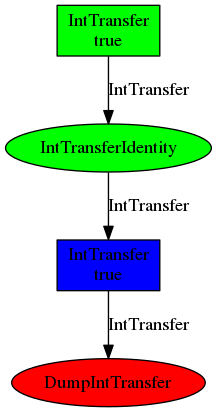
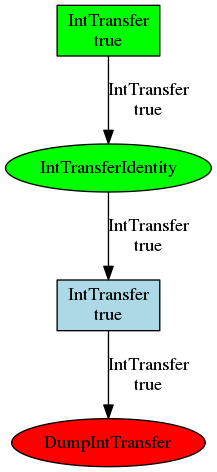
Show activators on dot diagrams

diff --git a/dataflow-manager/data-flow-manager/generator/src/main/java/ch/skymarshall/dataflowmgr/generator/writers/dot/DotModuleVisitor.java b/dataflow-manager/data-flow-manager/generator/src/main/java/ch/skymarshall/dataflowmgr/generator/writers/dot/DotModuleVisitor.java
@@ -55,11 +55,13 @@ public class DotModuleVisitor extends ModuleVisitor<DotModuleVisitor.Graph> {
 		final UUID from;
 		final UUID to;
 		final String label;
+		String activator;
 
-		public Link(final UUID from, final UUID to, final String label) {
+		public Link(final UUID from, final UUID to, final String label, final String activator) {
 			this.from = from;
 			this.to = to;
 			this.label = label;
+			this.activator = activator;
 		}
 
 	}
@@ -79,16 +81,16 @@ public class DotModuleVisitor extends ModuleVisitor<DotModuleVisitor.Graph> {
 	@Override
 	public Graph visit(final Module module, final ActionPoint ap, final InFlowRule rule, final Graph context) {
 		context.nodes.add(new Node(rule.uuid, rule.input + "\\n" + rule.activator, Shape.box));
-		context.links.add(new Link(rule.uuid, ap.uuid, ap.input));
+		context.links.add(new Link(rule.uuid, ap.uuid, ap.input, ap.activator));
 		return super.visit(module, ap, rule, context);
 	}
 
 	@Override
 	public Graph visit(final Module module, final ActionPoint ap, final OutFlowRule rule, final Graph context) {
-		context.links.add(new Link(ap.uuid, rule.uuid, ap.output));
+		context.links.add(new Link(ap.uuid, rule.uuid, ap.output, ap.activator));
 
 		context.nodes.add(new Node(rule.uuid, rule.output + "\\n" + rule.activator, Shape.box));
-		context.links.add(new Link(rule.uuid, findAction(module, rule.nextAction).uuid, rule.output));
+		context.links.add(new Link(rule.uuid, findAction(module, rule.nextAction).uuid, rule.output, rule.activator));
 		return super.visit(module, ap, rule, context);
 	}
 
@@ -120,8 +122,8 @@ public class DotModuleVisitor extends ModuleVisitor<DotModuleVisitor.Graph> {
 						node.label, node.shape.name(), extra)).newLine();
 			}
 			for (final Link link : context.links) {
-				output.appendIndented(
-						String.format("\"%s\" -> \"%s\" [ label=\"%s\" ];", link.from, link.to, link.label)).newLine();
+				output.appendIndented(String.format("\"%s\" -> \"%s\" [ label=\"%s\\n%s\" ];", link.from, link.to,
+						link.label, link.activator)).newLine(); // NOSONAR
 			}
 			output.unindent();
 			output.appendIndented("}");
@@ -147,7 +149,7 @@ public class DotModuleVisitor extends ModuleVisitor<DotModuleVisitor.Graph> {
 			} else if (executed) {
 				color = "red";
 			} else if (expected) {
-				color = "blue";
+				color = "lightblue";
 			}
 		}
 		return color;
